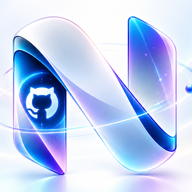
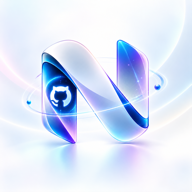
fix(brand): use the supplied N artwork uncropped; light island navigation

diff --git a/src/components/seo/SiteHeader.tsx b/src/components/seo/SiteHeader.tsx
@@ -158,10 +158,10 @@ export default function SiteHeader({ cta, account }: { links?: HeaderLink[]; cta
           <Link
             href="/"
             aria-label="Novaris home"
-            className="group flex h-12 items-center rounded-full border border-nv-graphite-700 bg-white/85 pl-1.5 pr-5 shadow-nv-card backdrop-blur-xl transition-shadow duration-200 hover:shadow-nv-lift"
+            className="group flex h-12 items-center rounded-full border border-nv-graphite-700 bg-white/85 pl-0.5 pr-5 shadow-nv-card backdrop-blur-xl transition-shadow duration-200 hover:shadow-nv-lift"
           >
             <span className="transition-transform duration-300 ease-nv-out group-hover:scale-[1.06] motion-reduce:transform-none">
-              <BrandMark size={40} />
+              <BrandMark size={46} />
             </span>
             <BrandWordmark height={13} className="ml-2" />
           </Link>
@@ -170,7 +170,7 @@ export default function SiteHeader({ cta, account }: { links?: HeaderLink[]; cta
           <div className="relative hidden lg:block" onMouseLeave={scheduleClose} onMouseEnter={cancelClose}>
             <nav
               aria-label="Primary"
-              className="relative flex h-12 items-center rounded-full bg-[#0b0d13] p-1 shadow-[0_1px_0_rgb(255_255_255/0.08)_inset,0_18px_40px_-18px_rgb(11_13_19/0.7)]"
+              className="relative flex h-12 items-center rounded-full border border-nv-graphite-700 bg-[linear-gradient(180deg,rgb(255_255_255/0.92),rgb(243_244_247/0.88))] p-1 shadow-[0_1px_0_rgb(255_255_255)_inset,0_18px_40px_-20px_rgb(20_22_29/0.28)] backdrop-blur-xl"
               onBlur={(e) => {
                 if (!e.currentTarget.parentElement?.contains(e.relatedTarget as Node)) setActive(null);
               }}
@@ -181,13 +181,13 @@ export default function SiteHeader({ cta, account }: { links?: HeaderLink[]; cta
                   const current = isCurrent(entry);
                   const itemClass = cn(
                     "relative flex h-10 items-center gap-1 rounded-full px-4 text-[13.5px] font-medium outline-none transition-colors duration-200",
-                    "focus-visible:ring-2 focus-visible:ring-nv-copper-600",
-                    on ? "text-white" : current ? "text-white" : "text-white/65 hover:text-white",
+                    "focus-visible:ring-2 focus-visible:ring-nv-copper-400",
+                    on ? "text-nv-copper-400" : current ? "text-nv-ivory-50" : "text-nv-ivory-200 hover:text-nv-ivory-50",
                   );
                   const pill = on && (
                     <motion.span
                       layoutId={reduce ? undefined : "nv-island-pill"}
-                      className="absolute inset-0 rounded-full bg-white/[0.12]"
+                      className="absolute inset-0 rounded-full bg-nv-copper-wash ring-1 ring-nv-copper-700"
                       transition={ISLAND_SPRING}
                     />
                   );
@@ -210,7 +210,7 @@ export default function SiteHeader({ cta, account }: { links?: HeaderLink[]; cta
                         <Link href={entry.href!} aria-current={current ? "page" : undefined} className={itemClass} onFocus={() => setActive(entry.id)}>
                           {pill}
                           <span className="relative">{entry.label}</span>
-                          {current && <span aria-hidden className="relative ml-1 size-1 rounded-full bg-nv-copper-600" />}
+                          {current && <span aria-hidden className="relative ml-1 size-1 rounded-full bg-nv-copper-400" />}
                         </Link>
                       )}
                     </li>
@@ -230,10 +230,10 @@ export default function SiteHeader({ cta, account }: { links?: HeaderLink[]; cta
                   animate={{ opacity: 1, scaleX: 1, scaleY: 1, y: 0 }}
                   exit={reduce ? { opacity: 0 } : { opacity: 0, scaleX: 0.7, scaleY: 0.4, y: -10 }}
                   transition={reduce ? { duration: 0 } : ISLAND_SPRING}
-                  className="absolute left-1/2 top-full z-10 mt-2.5 w-[34rem] origin-top overflow-hidden rounded-[28px] bg-[#0b0d13] p-2 shadow-[0_1px_0_rgb(255_255_255/0.08)_inset,0_40px_80px_-30px_rgb(11_13_19/0.75)]"
+                  className="absolute left-1/2 top-full z-10 mt-2.5 w-[34rem] origin-top overflow-hidden rounded-[28px] border border-nv-graphite-700 bg-white/95 p-2 shadow-nv-overlay backdrop-blur-xl"
                   style={{ x: "-50%" }}
                 >
-                  <div aria-hidden className="pointer-events-none absolute inset-x-10 top-0 h-px bg-[linear-gradient(90deg,transparent,#7d93ff,#a98bff,transparent)]" />
+                  <div aria-hidden className="pointer-events-none absolute inset-x-10 top-0 h-px bg-[linear-gradient(90deg,transparent,#2f54ff,#7a4dff,#19b6e6,transparent)]" />
                   <AnimatePresence mode="popLayout" initial={false}>
                     <motion.ul
                       key={activeEntry.id}
@@ -249,15 +249,15 @@ export default function SiteHeader({ cta, account }: { links?: HeaderLink[]; cta
                             href={item.href}
                             onClick={() => setActive(null)}
                             aria-current={routeOf(item.href) === pathname ? "page" : undefined}
-                            className="group/item flex h-full items-start justify-between gap-3 rounded-[20px] px-4 py-3.5 outline-none transition-colors duration-150 hover:bg-white/[0.07] focus-visible:bg-white/[0.07] focus-visible:ring-2 focus-visible:ring-nv-copper-600"
+                            className="group/item flex h-full items-start justify-between gap-3 rounded-[20px] px-4 py-3.5 outline-none transition-colors duration-150 hover:bg-nv-graphite-850 focus-visible:bg-nv-graphite-850 focus-visible:ring-2 focus-visible:ring-nv-copper-400"
                           >
                             <span className="min-w-0">
-                              <span className="block text-[14px] font-medium text-white">{item.label}</span>
-                              <span className="mt-1 block text-[12.5px] leading-snug text-white/55">{item.note}</span>
+                              <span className="block text-[14px] font-medium text-nv-ivory-50 group-hover/item:text-nv-copper-400">{item.label}</span>
+                              <span className="mt-1 block text-[12.5px] leading-snug text-nv-ivory-300">{item.note}</span>
                             </span>
                             <ArrowUpRight
                               aria-hidden
-                              className="mt-0.5 size-4 shrink-0 text-[#9fb0ff] opacity-0 transition-[opacity,transform] duration-200 group-hover/item:-translate-y-0.5 group-hover/item:translate-x-0.5 group-hover/item:opacity-100 group-focus-visible/item:opacity-100"
+                              className="mt-0.5 size-4 shrink-0 text-nv-copper-400 opacity-0 transition-[opacity,transform] duration-200 group-hover/item:-translate-y-0.5 group-hover/item:translate-x-0.5 group-hover/item:opacity-100 group-focus-visible/item:opacity-100"
                             />
                           </Link>
                         </li>
@@ -285,7 +285,7 @@ export default function SiteHeader({ cta, account }: { links?: HeaderLink[]; cta
             </div>
             <button
               type="button"
-              className="grid size-12 place-items-center rounded-full bg-[#0b0d13] text-white shadow-nv-card lg:hidden"
+              className="grid size-12 place-items-center rounded-full border border-nv-graphite-700 bg-white/90 text-nv-ivory-50 shadow-nv-card backdrop-blur-xl lg:hidden"
               aria-label="Open menu"
               aria-haspopup="dialog"
               onClick={() => setMobileOpen(true)}
@@ -305,39 +305,39 @@ export default function SiteHeader({ cta, account }: { links?: HeaderLink[]; cta
           if (e.target === dialogRef.current) setMobileOpen(false);
         }}
       >
-        <div className="flex max-h-full flex-col overflow-hidden rounded-[28px] bg-[#0b0d13] text-white shadow-nv-overlay">
+        <div className="flex max-h-full flex-col overflow-hidden rounded-[28px] border border-nv-graphite-700 bg-white text-nv-ivory-100 shadow-nv-overlay">
           <div className="flex items-center justify-between p-3 pl-5">
-            <span id={titleId} className="font-nv-mono text-[11px] uppercase tracking-[0.18em] text-white/50">
+            <span id={titleId} className="font-nv-mono text-[11px] uppercase tracking-[0.18em] text-nv-ivory-300">
               Menu
             </span>
-            <button type="button" className="grid size-11 place-items-center rounded-full bg-white/10" aria-label="Close menu" onClick={() => setMobileOpen(false)}>
+            <button type="button" className="grid size-11 place-items-center rounded-full bg-nv-graphite-850" aria-label="Close menu" onClick={() => setMobileOpen(false)}>
               <X aria-hidden className="size-5" />
             </button>
           </div>
           <nav aria-label="Primary mobile" className="overflow-y-auto px-3 pb-3">
             {NAV.map((entry) =>
               entry.items ? (
-                <section key={entry.id} className="border-t border-white/10 py-3">
-                  <h2 className="px-2 pb-1 font-nv-mono text-[11px] uppercase tracking-[0.18em] text-white/45">{entry.label}</h2>
+                <section key={entry.id} className="border-t border-nv-graphite-700 py-3">
+                  <h2 className="px-2 pb-1 font-nv-mono text-[11px] uppercase tracking-[0.18em] text-nv-ivory-300">{entry.label}</h2>
                   <ul>
                     {entry.items.map((item) => (
                       <li key={item.href}>
-                        <Link href={item.href} onClick={() => setMobileOpen(false)} className="flex min-h-11 items-center justify-between rounded-2xl px-2 text-[15px] text-white/90 hover:bg-white/[0.06]">
+                        <Link href={item.href} onClick={() => setMobileOpen(false)} className="flex min-h-11 items-center justify-between rounded-2xl px-2 text-[15px] text-nv-ivory-100 hover:bg-nv-graphite-850">
                           {item.label}
-                          <ArrowUpRight aria-hidden className="size-4 text-white/40" />
+                          <ArrowUpRight aria-hidden className="size-4 text-nv-copper-400" />
                         </Link>
                       </li>
                     ))}
                   </ul>
                 </section>
               ) : (
-                <Link key={entry.id} href={entry.href!} onClick={() => setMobileOpen(false)} className="flex min-h-12 items-center border-t border-white/10 px-2 text-[15px] text-white/90">
+                <Link key={entry.id} href={entry.href!} onClick={() => setMobileOpen(false)} className="flex min-h-12 items-center border-t border-nv-graphite-700 px-2 text-[15px] text-nv-ivory-100">
                   {entry.label}
                 </Link>
               ),
             )}
-            <div className="flex flex-col gap-2 border-t border-white/10 pt-3">
-              {account && <div className="[&_*]:!text-white">{account}</div>}
+            <div className="flex flex-col gap-2 border-t border-nv-graphite-700 pt-3">
+              {account && <div>{account}</div>}
               <Link href={cta.href} onClick={() => setMobileOpen(false)} className="flex min-h-12 items-center justify-center gap-2 rounded-full bg-nv-copper-500 text-[15px] font-medium text-white">
                 {cta.label}
                 <ArrowRight aria-hidden className="size-4" />

diff --git a/src/components/BrandMark.tsx b/src/components/BrandMark.tsx
@@ -3,11 +3,11 @@ import { cn } from "@/components/nv/cn";
 
 // Brand artwork ships on a white field; multiply blending drops that field on light surfaces.
 
-/** The Novaris "N" mark (public/brand/novaris-mark.png, 820px source). */
+/** The Novaris "N" mark, used uncropped exactly as supplied (public/brand/novaris-n.png, 1254px). */
 export function BrandMark({ size = 32, className }: { size?: number; className?: string }) {
   return (
     <Image
-      src="/brand/novaris-mark.png"
+      src="/brand/novaris-n.png"
       alt=""
       aria-hidden
       width={size}

diff --git a/src/components/icons/BotIcon.tsx b/src/components/icons/BotIcon.tsx
@@ -2,5 +2,5 @@ import Image from "next/image";
 import { cn } from "@/lib/utils";
 
 export function BotIcon({ className }: { className?: string }) {
-    return <Image src="/brand/novaris-mark.png" alt="" aria-hidden width={40} height={40} className={cn("h-full w-full object-contain mix-blend-multiply", className)} />;
+    return <Image src="/brand/novaris-n.png" alt="" aria-hidden width={40} height={40} className={cn("h-full w-full object-contain mix-blend-multiply", className)} />;
 }
